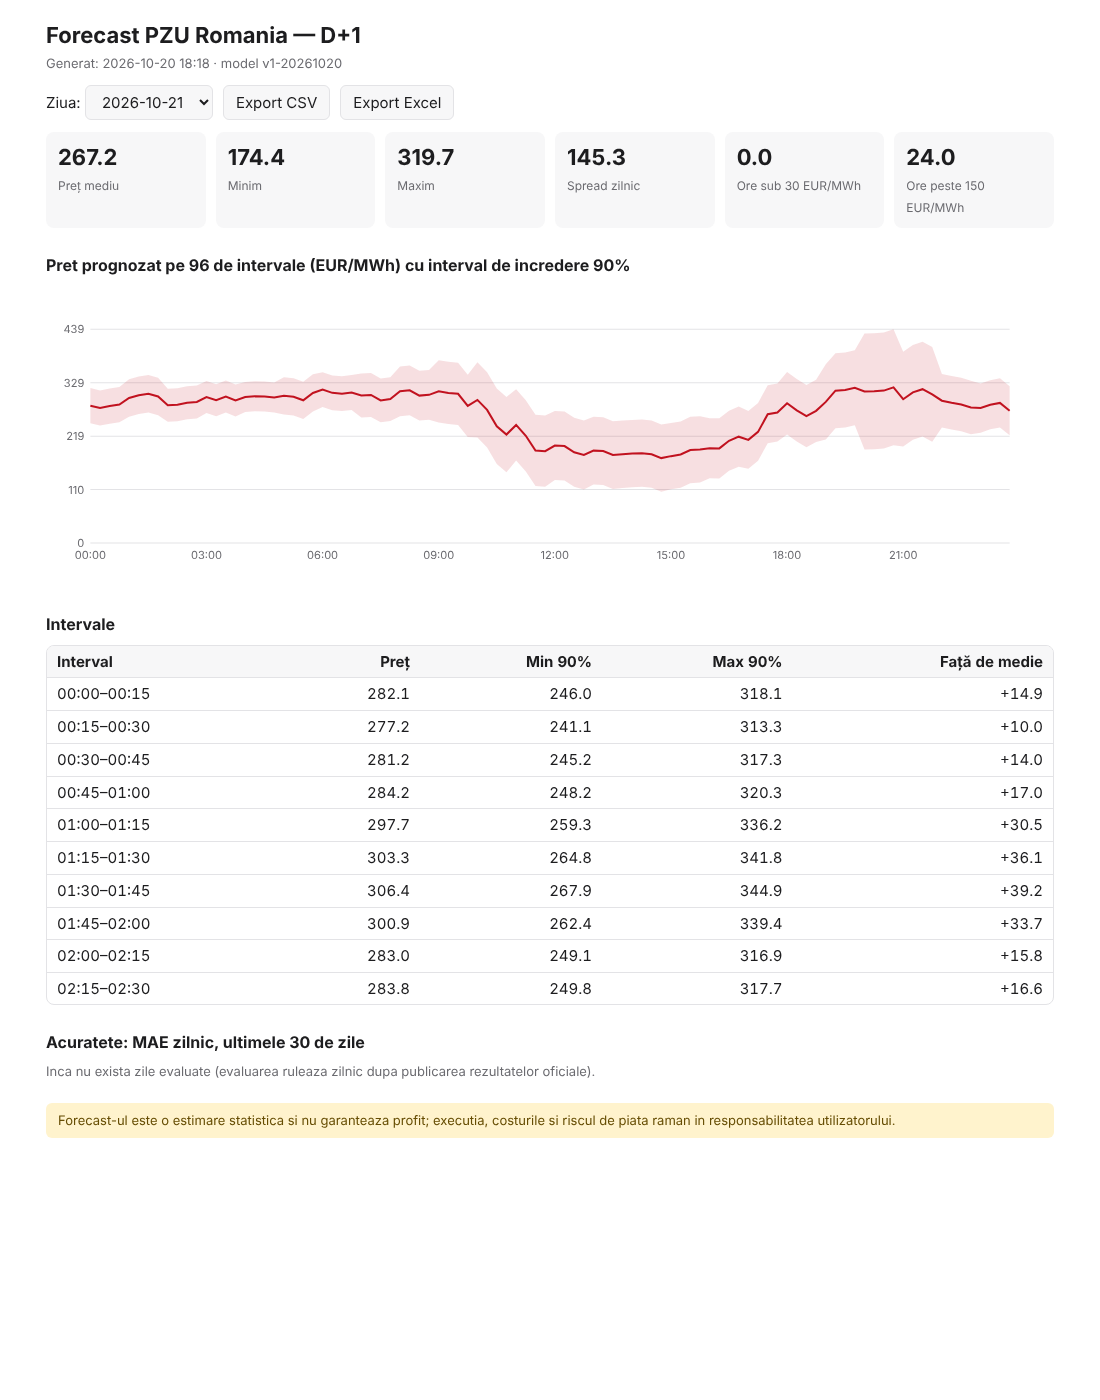
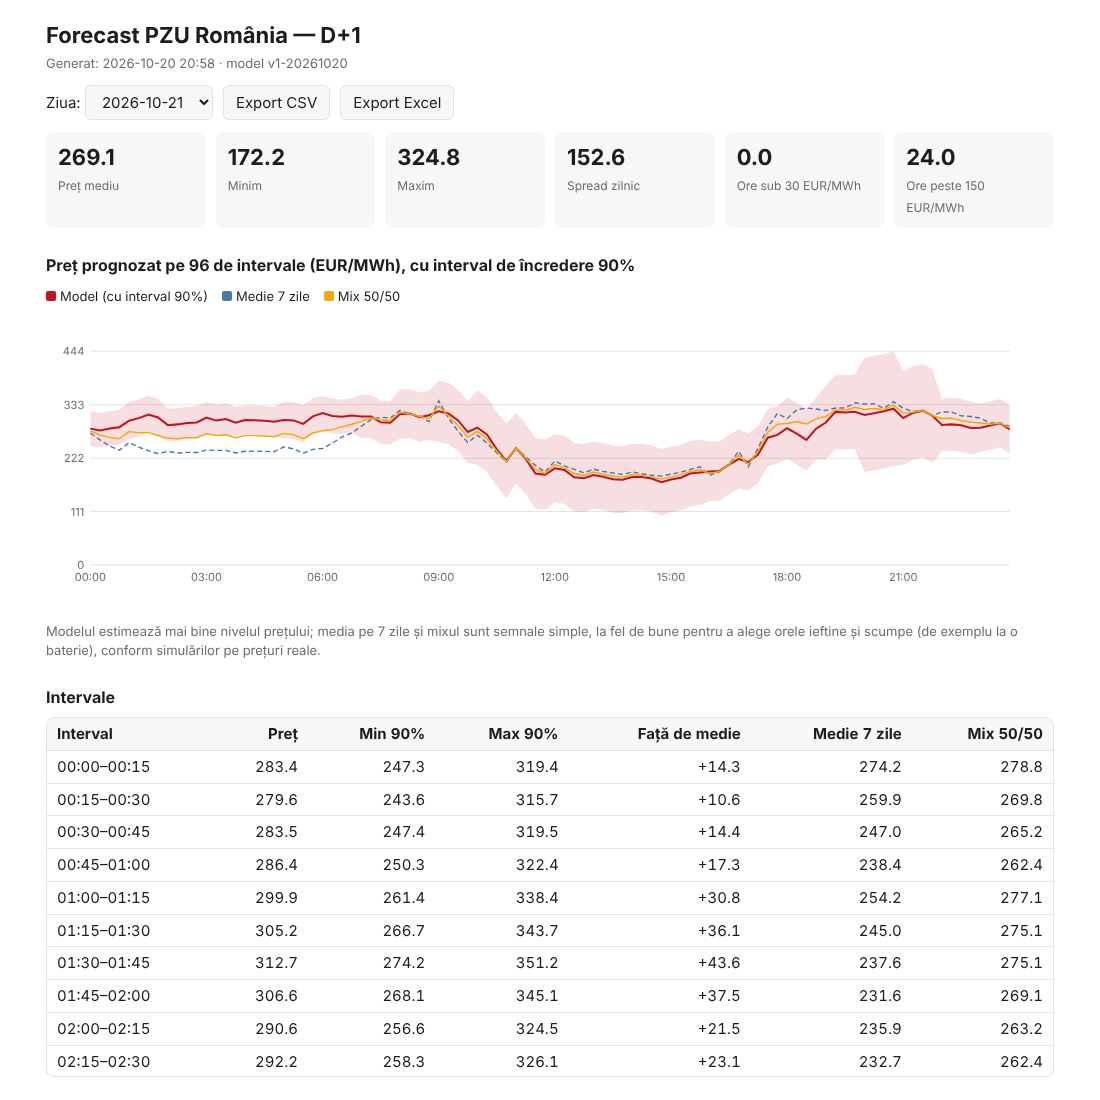
Afiseaza media pe 7 zile si mixul 50/50 alaturi de model (API, dashboard, export); migrare usoara DB
Claude-Session: https://claude.ai/code/session_01Kixk22HMWS45vP2jGBSExL

Changed region(s): [[0.0309, 0.0, 0.9582, 0.9891], [0.6491, 0.0927, 0.7727, 0.1855], [0.8036, 0.0927, 0.8964, 0.2164]]

diff --git a/src/pzu/api/static/index.html b/src/pzu/api/static/index.html
@@ -19,6 +19,7 @@ svg{width:100%;height:auto;display:block}svg text{font-size:11px;fill:var(--mute
 .tbl{max-height:360px;overflow:auto;border:1px solid var(--line);border-radius:8px}
 table{border-collapse:collapse;width:100%}th,td{padding:5px 10px;text-align:right;border-bottom:1px solid var(--line);font-variant-numeric:tabular-nums}
 th{position:sticky;top:0;background:var(--card)}td:first-child,th:first-child{text-align:left}
+.legend span{margin-right:14px;font-size:13px}.legend i{display:inline-block;width:10px;height:10px;margin-right:4px;border-radius:2px}
 .warn{background:var(--warn);color:var(--warnfg);padding:8px 12px;border-radius:6px;font-size:13px;margin-top:22px}
 #err{color:var(--acc)}
 </style>
@@ -33,9 +34,11 @@ th{position:sticky;top:0;background:var(--card)}td:first-child,th:first-child{te
 </div>
 <div class="kpis" id="kpis"></div>
 <h2>Preț prognozat pe 96 de intervale (EUR/MWh), cu interval de încredere 90%</h2>
+<div class="legend" id="legend"></div>
 <div id="chart"></div>
+<p class="sub">Modelul estimează mai bine nivelul prețului; media pe 7 zile și mixul sunt semnale simple, la fel de bune pentru a alege orele ieftine și scumpe (de exemplu la o baterie), conform simulărilor pe prețuri reale.</p>
 <h2>Intervale</h2>
-<div class="tbl"><table><thead><tr><th>Interval</th><th>Preț</th><th>Min 90%</th><th>Max 90%</th><th>Față de medie</th></tr></thead><tbody id="rows"></tbody></table></div>
+<div class="tbl"><table><thead><tr><th>Interval</th><th>Preț</th><th>Min 90%</th><th>Max 90%</th><th>Față de medie</th><th>Medie 7 zile</th><th>Mix 50/50</th></tr></thead><tbody id="rows"></tbody></table></div>
 <h2>Acuratețe: MAE zilnic, ultimele 30 de zile</h2>
 <div id="acc" class="sub"></div>
 <p class="warn">Forecast-ul este o estimare statistică și nu garantează profit; execuția, costurile și riscul de piață rămân în responsabilitatea utilizatorului.</p>
@@ -52,7 +55,7 @@ async function j(u){
   }
   const r=await fetch(u);if(!r.ok)throw new Error((await r.json()).detail||r.status);return r.json()}
 function csvLink(f){ // export CSV fara server
-  const rows=["start,predicted_price,ci_90_lower,ci_90_upper",...f.intervals.map(x=>[x.start,x.predicted_price,x.ci_90_lower,x.ci_90_upper].join(","))];
+  const rows=["start,predicted_price,ci_90_lower,ci_90_upper,mean_7d_price,blend_price",...f.intervals.map(x=>[x.start,x.predicted_price,x.ci_90_lower,x.ci_90_upper,x.mean_7d_price??"",x.blend_price??""].join(","))];
   return URL.createObjectURL(new Blob([rows.join("\n")],{type:"text/csv"}));
 }
 const hhmm=s=>s.slice(11,16);
@@ -66,7 +69,7 @@ function chart(el,series,opts){ // series: [{y:[],lo:[],hi:[],color,bars}]
   series.forEach(s=>{
     if(s.lo){const up=s.hi.map((v,i)=>`${sx(i)},${sy(v)}`).join(" "),dn=s.lo.map((v,i)=>`${sx(i)},${sy(v)}`).reverse().join(" ");g+=`<polygon points="${up} ${dn}" fill="var(--band)"/>`}
     if(s.bars){const w=(W-2*P)/n*0.7;s.y.forEach((v,i)=>{g+=`<rect x="${sx(i)-w/2}" y="${Math.min(sy(v),sy(0))}" width="${w}" height="${Math.abs(sy(v)-sy(0))}" fill="${s.color}"><title>${opts.titles[i]}: ${fmt(v)}</title></rect>`})}
-    else g+=`<polyline fill="none" stroke="${s.color}" stroke-width="2" points="${s.y.map((v,i)=>`${sx(i)},${sy(v)}`).join(" ")}"/>`;
+    else g+=`<polyline fill="none" stroke="${s.color}" stroke-width="${s.w||2}" ${s.dash?`stroke-dasharray="${s.dash}"`:""} points="${s.y.map((v,i)=>`${sx(i)},${sy(v)}`).join(" ")}"/>`;
   });
   el.innerHTML=g+"</svg>";
 }
@@ -80,8 +83,14 @@ async function load(day){
     $("kpis").innerHTML=[["Preț mediu",fmt(s.mean)],["Minim",fmt(s.min)],["Maxim",fmt(s.max)],["Spread zilnic",fmt(s.spread)],
       ["Ore sub 30 EUR/MWh",fmt(s.hours_below_30)],["Ore peste 150 EUR/MWh",fmt(s.hours_above_150)]].map(([a,b])=>`<div class="kpi"><b>${b}</b><span>${a}</span></div>`).join("");
     const it=f.intervals,ticks=it.map((x,i)=>[i,hhmm(x.start)]).filter(([i])=>i%12==0);
-    chart($("chart"),[{y:it.map(x=>x.predicted_price),lo:it.map(x=>x.ci_90_lower),hi:it.map(x=>x.ci_90_upper),color:"var(--acc)"}],{label:"Forecast PZU",ticks});
-    $("rows").innerHTML=it.map(x=>`<tr><td>${hhmm(x.start)}–${hhmm(x.end)}</td><td>${fmt(x.predicted_price)}</td><td>${fmt(x.ci_90_lower)}</td><td>${fmt(x.ci_90_upper)}</td><td>${(x.predicted_price-s.mean>=0?"+":"")+fmt(x.predicted_price-s.mean)}</td></tr>`).join("");
+    const hasRef=it.every(x=>x.mean_7d_price!=null&&x.blend_price!=null);
+    const ser=[{y:it.map(x=>x.predicted_price),lo:it.map(x=>x.ci_90_lower),hi:it.map(x=>x.ci_90_upper),color:"var(--acc)"}];
+    let leg=`<span><i style="background:var(--acc)"></i>Model (cu interval 90%)</span>`;
+    if(hasRef){ser.push({y:it.map(x=>x.mean_7d_price),color:"#4c78a8",w:1.4,dash:"5 3"},{y:it.map(x=>x.blend_price),color:"#f2a900",w:1.4});
+      leg+=`<span><i style="background:#4c78a8"></i>Medie 7 zile</span><span><i style="background:#f2a900"></i>Mix 50/50</span>`}
+    $("legend").innerHTML=leg;
+    chart($("chart"),ser,{label:"Forecast PZU",ticks});
+    $("rows").innerHTML=it.map(x=>`<tr><td>${hhmm(x.start)}–${hhmm(x.end)}</td><td>${fmt(x.predicted_price)}</td><td>${fmt(x.ci_90_lower)}</td><td>${fmt(x.ci_90_upper)}</td><td>${(x.predicted_price-s.mean>=0?"+":"")+fmt(x.predicted_price-s.mean)}</td><td>${x.mean_7d_price==null?"–":fmt(x.mean_7d_price)}</td><td>${x.blend_price==null?"–":fmt(x.blend_price)}</td></tr>`).join("");
   }catch(e){$("err").textContent=e.message}
 }
 async function acc(){

diff --git a/tests/test_pipeline_api.py b/tests/test_pipeline_api.py
@@ -137,3 +137,27 @@ def test_api_dates_accuracy_and_dashboard(client):
     page = client.get("/")
     assert page.status_code == 200 and "Forecast PZU" in page.text
     assert client.get("/health").json() == {"status": "ok"}
+
+
+def test_api_includes_benchmarks(client):
+    body = client.get("/api/v1/forecast/pzu", params={"date": "2026-03-02"}).json()
+    first = body["intervals"][0]
+    assert first["mean_7d_price"] is not None and first["blend_price"] is not None
+    assert first["blend_price"] == pytest.approx(0.5 * first["predicted_price"] + 0.5 * first["mean_7d_price"], abs=0.02)
+    csv = client.get("/api/v1/forecast/pzu/export", params={"date": "2026-03-02", "format": "csv"}).text
+    assert "blend_price" in csv.splitlines()[0]
+
+
+def test_init_db_adds_new_columns_to_an_old_database(tmp_path):
+    from sqlalchemy import inspect, text
+    eng = db.get_engine(f"sqlite:///{tmp_path/'old.db'}")
+    with eng.begin() as conn:   # schema veche, fara coloanele noi
+        conn.execute(text("CREATE TABLE price_forecast (timestamp DATETIME PRIMARY KEY, forecast_generated_at DATETIME, "
+                          "predicted_price FLOAT, ci_lower FLOAT, ci_upper FLOAT, model_version VARCHAR(20), features_used JSON)"))
+        conn.execute(text("INSERT INTO price_forecast (timestamp, predicted_price) VALUES ('2026-01-01 00:00:00', 50.0)"))
+    db.init_db(eng)
+    cols = {c["name"] for c in inspect(eng).get_columns("price_forecast")}
+    assert {"mean7d_price", "blend_price"} <= cols
+    with eng.connect() as conn:   # datele existente raman
+        assert conn.execute(text("SELECT predicted_price FROM price_forecast")).scalar_one() == 50.0
+    db.init_db(eng)               # idempotent

diff --git a/src/pzu/db.py b/src/pzu/db.py
@@ -3,7 +3,7 @@ Timestamp-urile se stocheaza in UTC; la citire se returneaza tz-aware UTC."""
 import pandas as pd
 from sqlalchemy import (
     JSON, Column, Date, DateTime, Float, LargeBinary, MetaData, String, Table, create_engine, delete,
-    select, tuple_,
+    inspect, select, text, tuple_,
 )
 from sqlalchemy.engine import Engine
 
@@ -38,6 +38,8 @@ price_forecast = Table(
     Column("predicted_price", Float),
     Column("ci_lower", Float),
     Column("ci_upper", Float),
+    Column("mean7d_price", Float),   # referinta simpla: media pe 7 zile la aceeasi ora
+    Column("blend_price", Float),    # mix 50/50 model + media pe 7 zile
     Column("model_version", String(20)),
     Column("features_used", JSON),
 )
@@ -83,6 +85,21 @@ def get_engine(url: str | None = None) -> Engine:
 
 def init_db(engine: Engine) -> None:
     metadata.create_all(engine)
+    _add_missing_columns(engine)
+
+
+def _add_missing_columns(engine: Engine) -> None:
+    """Migrare usoara: coloanele noi (nullable) se adauga in tabelele existente (ex. DB din release)."""
+    insp = inspect(engine)
+    with engine.begin() as conn:
+        for table in metadata.sorted_tables:
+            if not insp.has_table(table.name):
+                continue
+            have = {c["name"] for c in insp.get_columns(table.name)}
+            for col in table.columns:
+                if col.name not in have and not col.primary_key:
+                    ddl = col.type.compile(dialect=engine.dialect)
+                    conn.execute(text(f'ALTER TABLE {table.name} ADD COLUMN "{col.name}" {ddl}'))
 
 
 def upsert_df(engine: Engine, table: Table, df: pd.DataFrame, keys: list[str]) -> int:

diff --git a/src/pzu/api/main.py b/src/pzu/api/main.py
@@ -28,6 +28,11 @@ def _round(x) -> float:
     return round(float(x), 2)
 
 
+def _opt(row, key):
+    v = row.get(key)
+    return None if v is None or pd.isna(v) else round(float(v), 2)
+
+
 def create_app(engine: Engine | None = None) -> FastAPI:
     engine = engine or db.get_engine()
     db.init_db(engine)
@@ -54,7 +59,8 @@ def create_app(engine: Engine | None = None) -> FastAPI:
             "intervals": [
                 {"start": _iso(ts), "end": _iso(ts + step),
                  "predicted_price": _round(r.predicted_price),
-                 "ci_90_lower": _round(r.ci_lower), "ci_90_upper": _round(r.ci_upper)}
+                 "ci_90_lower": _round(r.ci_lower), "ci_90_upper": _round(r.ci_upper),
+                 "mean_7d_price": _opt(r, "mean7d_price"), "blend_price": _opt(r, "blend_price")}
                 for ts, r in fc.iterrows()
             ],
         }
@@ -82,6 +88,8 @@ def create_app(engine: Engine | None = None) -> FastAPI:
             "ci_90_lower": fc["ci_lower"].round(2).to_numpy(),
             "ci_90_upper": fc["ci_upper"].round(2).to_numpy(),
             "diff_vs_daily_mean": (fc["predicted_price"] - fc["predicted_price"].mean()).round(2).to_numpy(),
+            "mean_7d_price": fc["mean7d_price"].round(2).to_numpy() if "mean7d_price" in fc else None,
+            "blend_price": fc["blend_price"].round(2).to_numpy() if "blend_price" in fc else None,
         })
         name = f"forecast_pzu_{date}"
         if format == "csv":

diff --git a/src/pzu/model.py b/src/pzu/model.py
@@ -75,6 +75,9 @@ def forecast_day(bundle: ModelBundle, inputs: pd.DataFrame, prices: pd.DataFrame
         raise ValueError(f"Lipsesc forecast-uri de intrare pentru {pd.Timestamp(target_day).date()}")
     pred = pd.Series(bundle.model.predict(X[bundle.features]), index=idx)
     lo, hi = bundle.conformal.interval(pred)
-    out = pd.DataFrame({"predicted_price": pred, "ci_lower": lo, "ci_upper": hi})
+    mean7d = pd.Series(X["price_rolling_mean_7d"].to_numpy(), index=idx)
+    blend = (0.5 * pred + 0.5 * mean7d).where(mean7d.notna(), pred)
+    out = pd.DataFrame({"predicted_price": pred, "ci_lower": lo, "ci_upper": hi,
+                        "mean7d_price": mean7d, "blend_price": blend})
     out["model_version"] = bundle.version
     return out

diff --git a/README.md b/README.md
@@ -49,6 +49,8 @@ Apoi totul rulează singur. Dashboard-ul: Releases → `PZU data` → `dashboard
 Alternativ, pe un server propriu: Postgres (`DATABASE_URL`) + `docker compose up`.
 
 ## API
+Fiecare interval include și `mean_7d_price` (media pe 7 zile la aceeași oră) și `blend_price` (mix 50/50 cu modelul),
+semnale simple care, în simulările pe baterie, au avut valoare comparabilă cu modelul.
 `GET /api/v1/forecast/pzu?date=YYYY-MM-DD`, `/summary`, `/export?format=csv|xlsx`, `/api/v1/forecast/dates`,
 `/api/v1/accuracy?days=30`, `/health`. Dashboard la `/`. **Fără autentificare** în v1: nu expune API-ul public.
 
